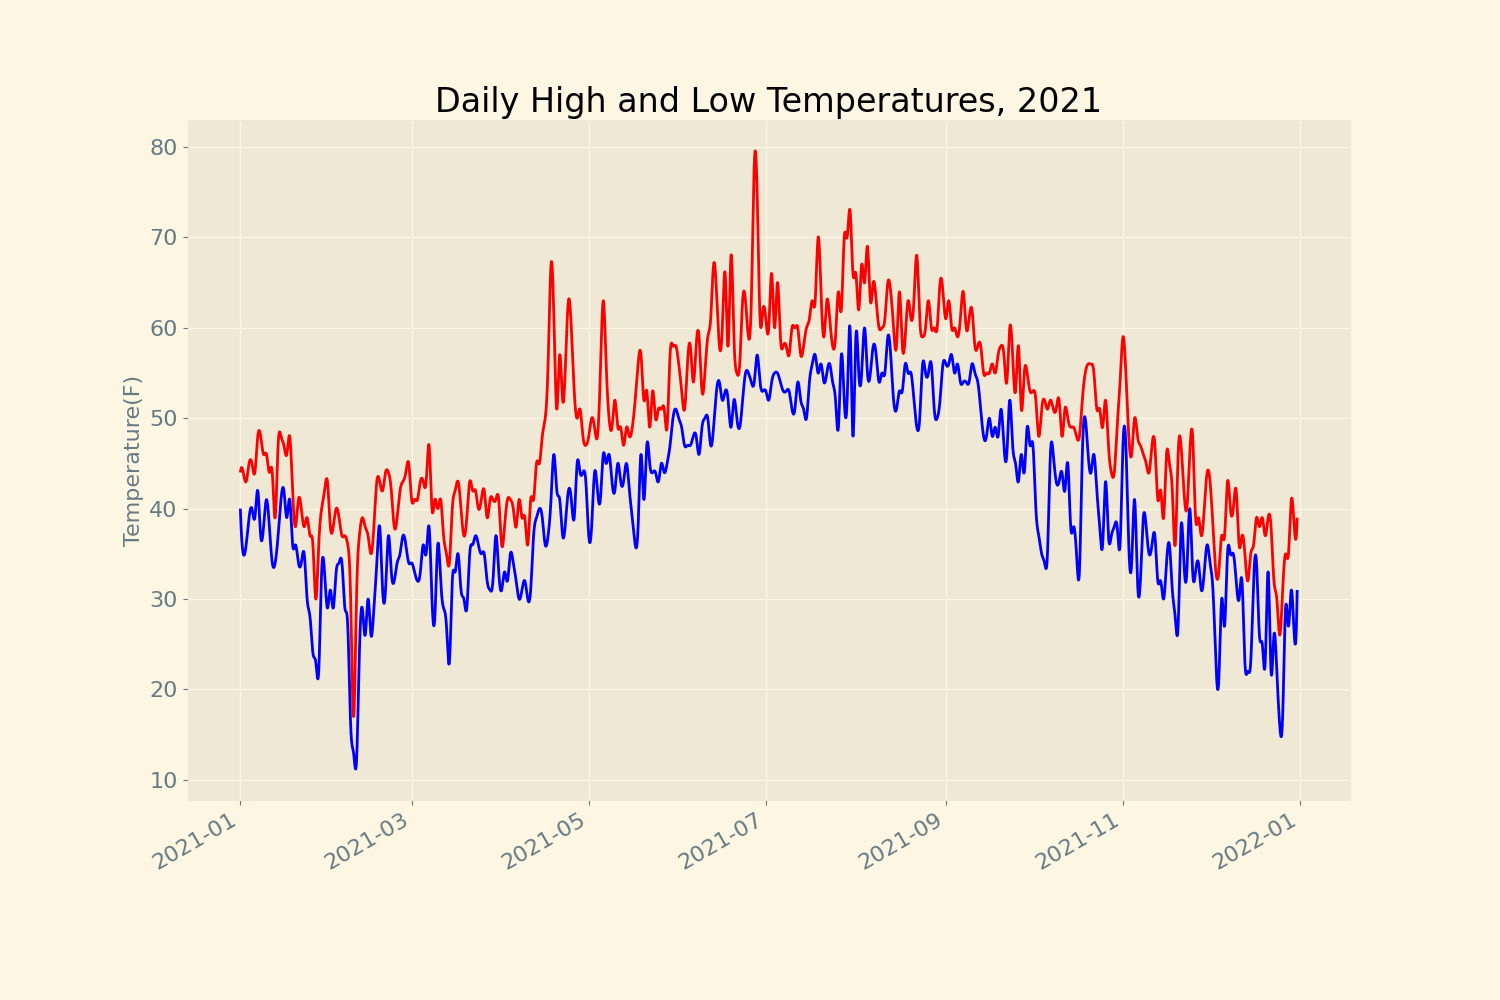
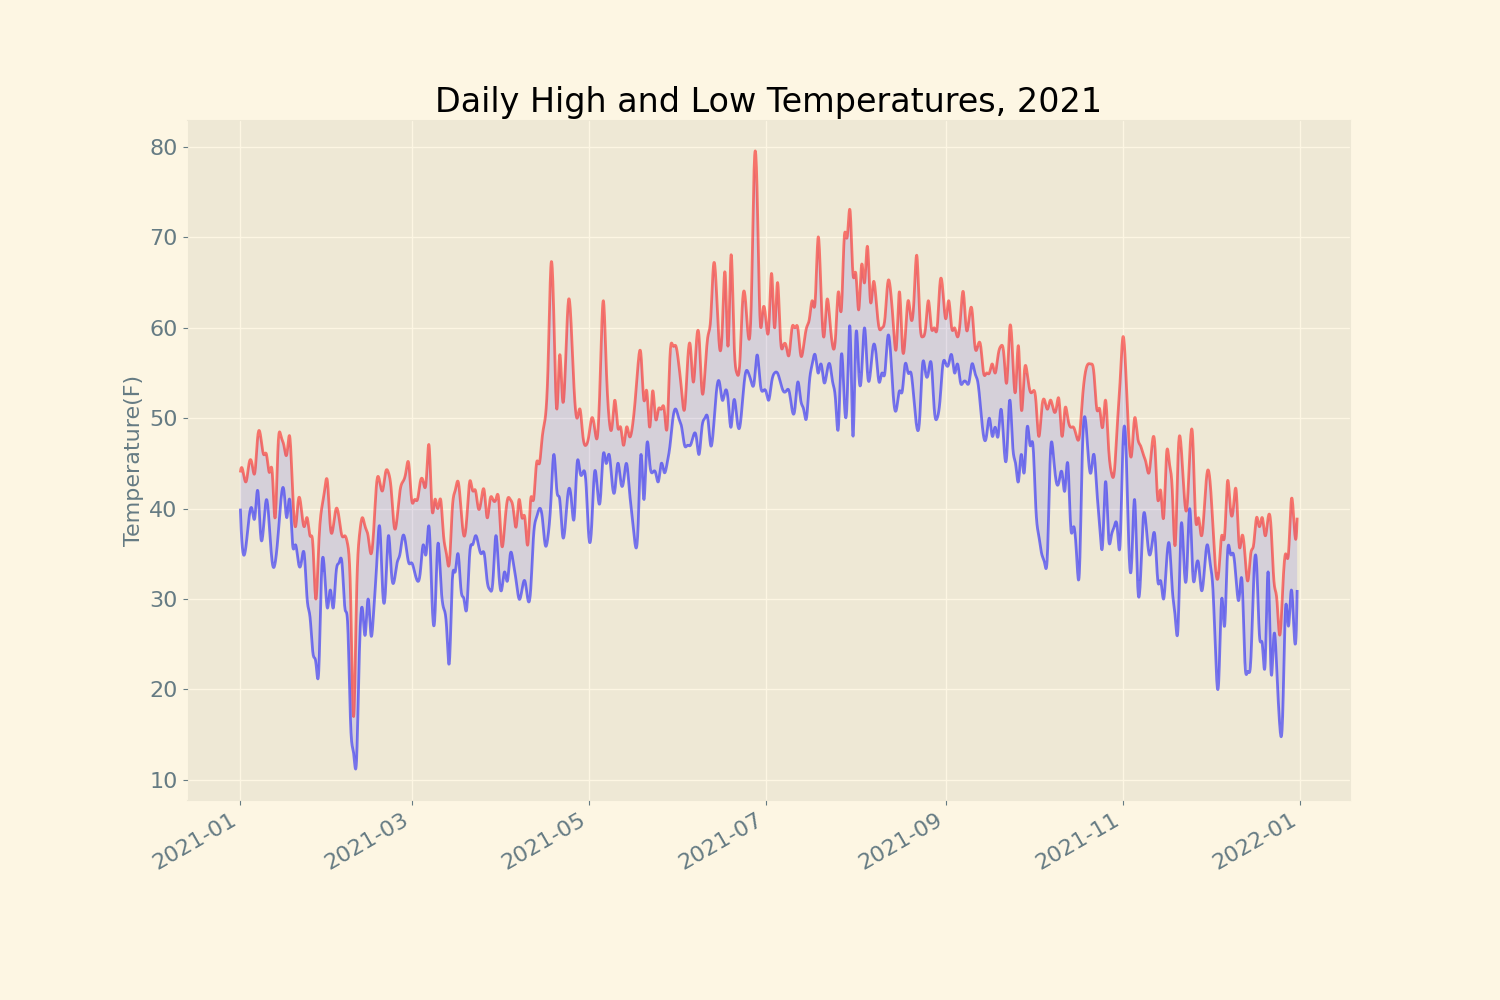
更新

Changed region(s): [[0.1533, 0.155, 0.8893, 0.775]]

diff --git a/weather_data/sitka_highs_lows2.py b/weather_data/sitka_highs_lows2.py
@@ -32,12 +32,14 @@ date_nums = mdates.date2num(dates)
 f_highs = interp1d(date_nums, highs, kind='cubic')
 date_nums_interp = np.linspace(date_nums.min(), date_nums.max(), len(dates) * 10)
 highs_interp = f_highs(date_nums_interp)
-ax.plot(mdates.num2date(date_nums_interp), highs_interp, color='red')
+ax.plot(mdates.num2date(date_nums_interp), highs_interp, color='red', alpha=0.5)
 
 # 插值并绘制最低温度曲线
 f_lows = interp1d(date_nums, lows, kind='cubic')
 lows_interp = f_lows(date_nums_interp)
-ax.plot(mdates.num2date(date_nums_interp), lows_interp, color='blue')
+ax.plot(mdates.num2date(date_nums_interp), lows_interp, color='blue', alpha=0.5)
+
+ax.fill_between(dates, highs, lows, facecolor='blue', alpha=0.1)
 
 # 设置绘制的格式
 ax.set_title("Daily High and Low Temperatures, 2021", fontsize=24)

diff --git a/weather_data/sitka_highs_lows.py b/weather_data/sitka_highs_lows.py
@@ -23,8 +23,9 @@ for row in reader:
 # 根据最高温度绘图
 plt.style.use('Solarize_Light2')
 fig, ax = plt.subplots(figsize=(15, 10))
-ax.plot(dates, highs, color='red')
-ax.plot(dates, lows, color='blue')
+ax.plot(dates, highs, color='red', alpha=0.5)
+ax.plot(dates, lows, color='blue', alpha=0.5)
+ax.fill_between(dates, highs, lows, facecolor='blue', alpha=0.1)
 
 # 设置绘制的格式
 ax.set_title("Daily High and Low Temperatures, 2021", fontsize=24)
